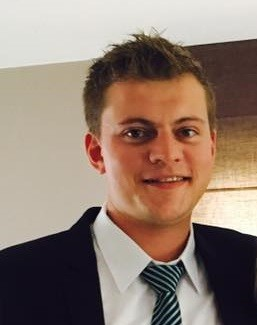
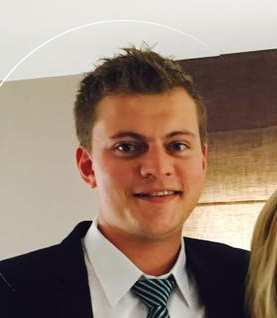
finalize styling

diff --git a/index.html b/index.html
@@ -6,6 +6,7 @@
     <meta name="viewport" content="width=device-width, initial-scale=1.0">
     <meta http-equiv="X-UA-Compatible" content="ie=edge">
     <title>Max Stouten | Web Developer</title>
+    <link rel="shortcut icon" type="image/png" href="/img/favicon.png"/>
     <link rel="stylesheet" href="css/output.css">
     <link href="https://fonts.googleapis.com/css?family=Montserrat|Oswald" rel="stylesheet">
     <link rel="stylesheet" href="https://use.fontawesome.com/releases/v5.7.2/css/all.css" integrity="sha384-fnmOCqbTlWIlj8LyTjo7mOUStjsKC4pOpQbqyi7RrhN7udi9RwhKkMHpvLbHG9Sr"
@@ -180,18 +181,18 @@
 
         <div id="about">
 
-            <p class="passion">
-                Self-thaught front-end developer <br /> with a passion for beautiful design, <br />constant learning
-            </p>
-
+           
+                <p class="passion">
+                        Self-taught front-end  web developer <br /> passionate about user-friendly web site design 
+                    </p>
             <div id="profile">
-
                 <img src="img/profile.png" alt="max stouten">
             </div>
 
+         
 
             <p>
-                Hi, I'm Max. I'm a front-end web developer. After mastering HTML, it wasn't long before CSS hooked me
+                Hi, I'm Max. I'm a front-end web developer, based in Antwerp. After mastering HTML, it wasn't long before CSS hooked me
                 with its creative claws. The animations just blew my mind, and I had a lot of fun styling with <b> CSS
                     Grid </b> and <b>Flexbox</b>.
             </p>
@@ -209,69 +210,75 @@
                 My current focus now is <b> Vue.js </b>.
             </p>
 
-
+            <p class="resume"> <a href="https://drive.google.com/file/d/1ACMZd4x6OYL9hP3O3HRJRQVC96yXT4CC/view?usp=sharing" target="_blank" download>See my resume</a> </p>
         </div>
+
+        
 
     </div>
 
 
     <div id="contact">
-        <h2 id="contact-header">Contact</h2>
-
-        <p>While I like getting letters in my mailbox, it's much quicker and more eco-friendly to </p>
-
-        <div class="center">
-
-            <button class="button" onclick="location.href='mailto:info@maxstouten.com'">
-                <i class="far fa-paper-plane"></i><span>send me an email </span> 
-            </button>
-        </div>
+        <h2 id="contact-header">Reach out</h2>
         
-        <p>You can find me in the e-world on the next places:</p>
+
+        
+        
+        <div class="center">
+            <span title="info@maxstouten.com">
+            <button class="button" onclick="location.href='mailto:info@maxstouten.com'">
+                    <i class="far fa-paper-plane"></i><span>send me an email </span> 
+                </button>
+                </span>
+            </div>
+
+           
+            <h2 id="stalk">Or stalk me on...</h2>
         <div class="links">
 
             <div class="link">
 
+                <span title="Linkedin">
                 <a href="https://www.linkedin.com/in/max-stouten/" target="_blank">
 
                     <i class="fab fa-linkedin-in"></i>
                 </a>
+                </span>
             </div>
 
             <div class="link">
-
+                    <span title="Github">
                     <a href="https://github.com/KapiteinKattenkwaad"  target="_blank">
                         <i class="fab fa-github"></i>
                     </a>
+                    </span>
                 </div>
 
             <div class="link">
-
+                    <span title="Twitter">
                 <a href="https://twitter.com/maxstouten" target="_blank">
                     <i class="fab fa-twitter"></i>
                 </a>
+                    </span>
             </div>
 
 
             <div class="link">
-
+                    <span title="Codepen">
                 <a href="https://codepen.io/KapiteinKattenkwaad/" target="_blank">
                     <i class="fab fa-codepen"></i>
                 </a>
+                    </span>
             </div>
         </div>
 
-        <div class="center">
-
-                <button class="button" id="resume" onclick="location.href='mailto:info@maxstouten.com'">
-                        <i class="far fa-user-circle"></i><span>Resume</span> 
-                </button>
-            </div>
+       
     </a>
     </div>
 
     <footer>
        <p> &#169; Max Stouten </p>
+       <p> <a href="mailto:info@maxstouten.com">info@maxstouten.com</a> </p>
     </footer>
 
 </body>

diff --git a/css/output.css b/css/output.css
@@ -44,7 +44,7 @@ nav .sidenav a {
   text-decoration: none;
   font-size: 4rem;
   font-family: "Oswald", sans-serif;
-  color: #FFB253;
+  color: #2d2d2c;
   display: block;
   transition: 0.3s;
 }
@@ -89,7 +89,7 @@ nav .closebtn {
   top: 50%;
   left: 50%;
   transform: translate(-50%, -50%);
-  color: #0073A3;
+  color: antiquewhite;
 }
 .hero-image h1 {
   font-size: 5rem;
@@ -112,7 +112,7 @@ nav .closebtn {
 h2 {
   padding-left: 2rem;
   font-size: 4rem;
-  color: #FFB253;
+  color: #2d2d2c;
   margin-top: 12rem;
 }
 
@@ -131,7 +131,7 @@ h3 {
 }
 
 ::-webkit-scrollbar-thumb {
-  background: #FFB253;
+  background: #0073A3;
   border-radius: 10px;
 }
 
@@ -229,17 +229,28 @@ p {
 }
 
 #profile img {
-  width: 20vw;
-  float: left;
   margin: 2em;
+  max-width: 100%;
+  height: auto;
   padding: 1rem;
-  shape-outside: padding-box;
-  clip-path: polygon(20% 0%, 80% 0%, 100% 20%, 100% 80%, 80% 100%, 20% 100%, 0% 80%, 0% 20%);
+  border-radius: 50%;
+  shape-outside: margin-box;
+  float: left;
 }
 
-#profile img:hover {
-  clip-path: circle(50% at 50% 50%);
-  transition-duration: 0.3s;
+p.resume {
+  padding-top: 3rem;
+}
+
+p a {
+  text-decoration: none;
+  font-weight: bold;
+  color: #0073A3;
+}
+
+p a:hover {
+  text-decoration: underline;
+  color: #2d2d2c;
 }
 
 /* contact */
@@ -261,6 +272,11 @@ p {
   transition-duration: 0.3s;
 }
 
+.stalk {
+  text-align: center;
+  font-size: 2rem;
+}
+
 .button {
   margin-bottom: 4rem;
   padding: 2rem;
@@ -268,7 +284,7 @@ p {
   font-size: 1.5rem;
   cursor: pointer;
   border-radius: 5px;
-  border: 1px solid #FFB253;
+  border: 1px solid #2d2d2c;
   background-color: antiquewhite;
   color: #0073A3;
 }
@@ -305,6 +321,10 @@ p {
   transition-duration: 0.3s;
 }
 
+#stalk {
+  margin-top: 3rem;
+}
+
 footer {
   text-align: center;
   padding: 0.5rem;
@@ -318,10 +338,19 @@ footer {
   #hamburger-menu {
     margin-left: 90vw;
   }
+
+  #profile img {
+    width: 30%;
+  }
 }
 @media screen and (max-width: 750px) {
   #hamburger-menu {
     margin-left: 80vw;
+  }
+
+  #profile img {
+    width: 60%;
+    shape-outside: none;
   }
 }
 /* bigger screens */

diff --git a/css/input.scss b/css/input.scss
@@ -4,7 +4,7 @@ sans-serif;
 $font-size-title: 4rem;
 $font-size-text: 1.2rem;
 
-$primary-color: #FFB253;
+$primary-color: #2d2d2c;
 $secondary-color: #0073A3;
 
 
@@ -120,7 +120,7 @@ nav {
     top: 50%;
     left: 50%;
     transform: translate(-50%, -50%);
-    color: $secondary-color;
+    color: antiquewhite;
   }
 
   h1 {
@@ -171,7 +171,7 @@ h3 {
 }
 
 ::-webkit-scrollbar-thumb {
-  background: $primary-color;
+  background: $secondary-color;
   border-radius: 10px;
 }
 
@@ -264,6 +264,8 @@ p {
   font-size: 1.3em;
 }
 
+
+
 .passion {
   border-left: 7px solid $secondary-color;
   padding-left: 20px;
@@ -277,18 +279,30 @@ p {
 }
 
 #profile img {
-  width: 20vw;
-  float: left;
   margin: 2em;
+  max-width: 100%;
+  height: auto;
   padding: 1rem;
-  shape-outside: padding-box;
-  clip-path: polygon(20% 0%, 80% 0%, 100% 20%, 100% 80%, 80% 100%, 20% 100%, 0% 80%, 0% 20%);
-   
+  border-radius: 50%;
+  shape-outside: margin-box;
+  float: left;
 }
 
-#profile img:hover {
-  clip-path: circle(50% at 50% 50%);
-  transition-duration: 0.3s;
+p.resume {
+  padding-top: 3rem;
+}
+
+p a {
+  text-decoration: none;
+  font-weight: bold;
+  color: $secondary-color;
+
+}
+
+p a:hover{
+  text-decoration: underline;
+  color: $primary-color;
+
 }
 
 
@@ -316,6 +330,10 @@ p {
   transition-duration: 0.3s;
 }
 
+.stalk {
+  text-align: center;
+  font-size: 2rem;
+}
 
 .button{
   margin-bottom: 4rem;
@@ -364,6 +382,10 @@ p {
    transition-duration: 0.3s;
   }
 
+  #stalk {
+    margin-top: 3rem;
+  }
+
 
 footer {
   text-align: center;
@@ -379,11 +401,18 @@ footer {
   #hamburger-menu {
     margin-left: 90vw;
   }
+  #profile img{
+    width: 30%;
+  }
 }
 
 @media screen and (max-width: 750px) {
   #hamburger-menu {
     margin-left: 80vw;
+  }
+  #profile img{
+    width: 60%;
+    shape-outside: none;
   }
 }
 
